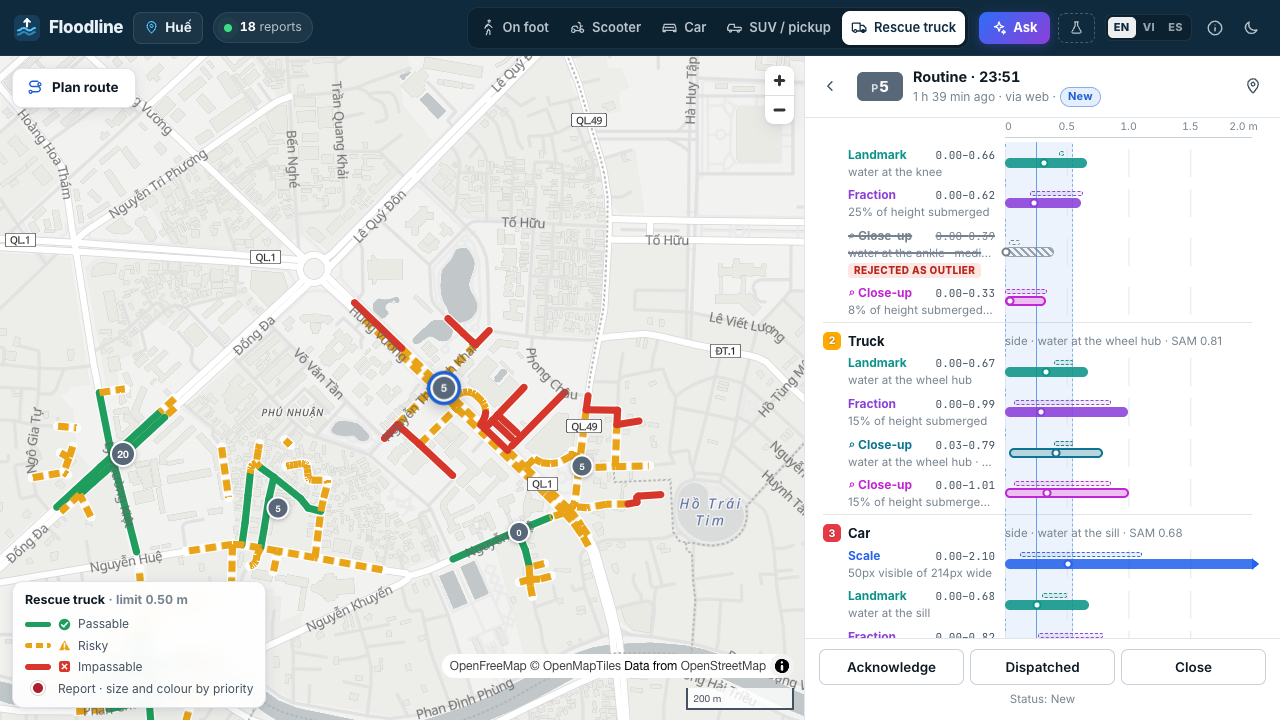
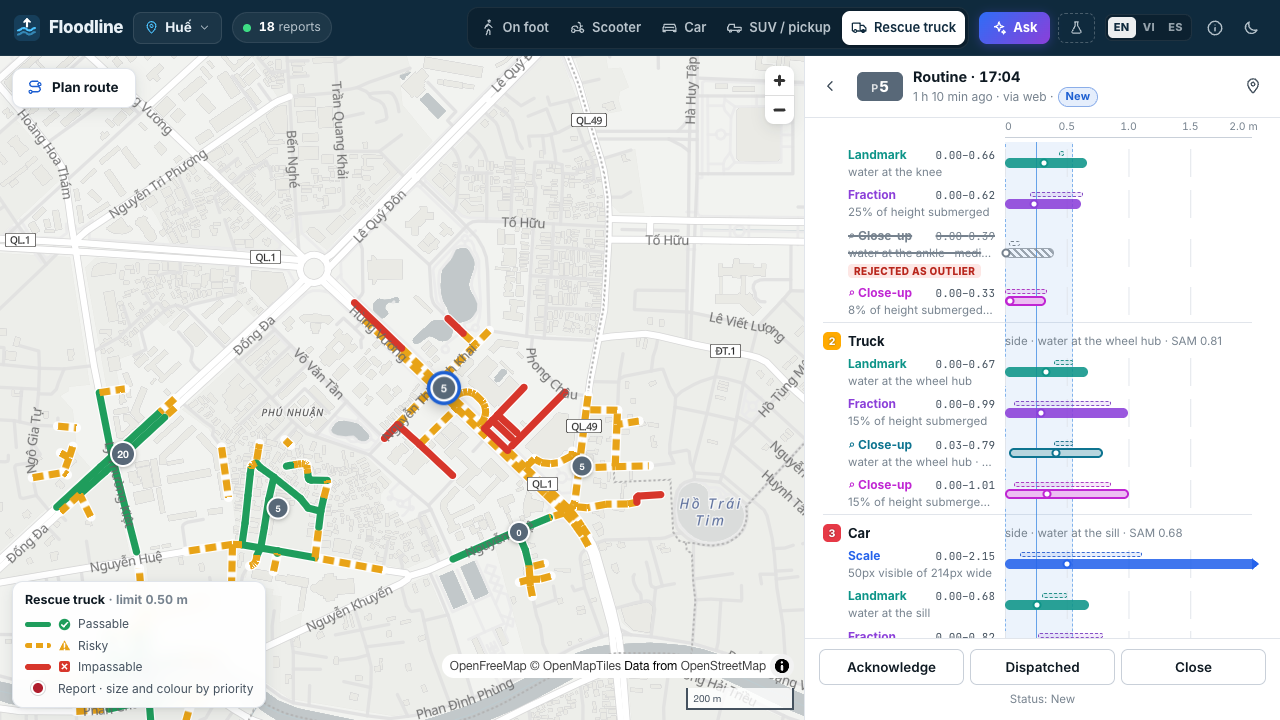
fix: replayed scenarios stay fresh; label the naive route for what it is
Scenario reports keep the age they have in the story, so a demo server that
has been up for a day still shows a night in progress instead of fading every
street to 'risky'. The comparison route is the fastest one ignoring the water,
not the shortest; the console, the assistant's tool and the README now say so.
README gains the Valencia route, the Spanish voice note with its translation,
and fresh screenshots.

diff --git a/web/src/lib/i18n.tsx b/web/src/lib/i18n.tsx
@@ -114,8 +114,8 @@ const en = {
   "route.avoids.other": "Avoids {n} flooded segments",
   "route.noFlood": "No flooding on the direct route",
   "route.safeFor": "Safe for {vehicle}",
-  "route.shortest": "Shortest",
-  "route.longer": "+{d} ({p}%) longer than the shortest route",
+  "route.shortest": "Fastest, ignoring water",
+  "route.longer": "+{d} ({p}%) longer than the fastest route ignoring water",
   "route.crosses.one": ", which crosses {n} impassable segment",
   "route.crosses.other": ", which crosses {n} impassable segments",
   "route.risky.one": "Still crosses {n} risky segment: drive slowly, check on arrival.",
@@ -124,7 +124,7 @@ const en = {
   "route.pin": "Pin {lat}, {lon}",
   "noroute.title": "No safe road route — send a boat",
   "noroute.for": "No safe road for {vehicle}.",
-  "noroute.naive": "The shortest road, {d}, runs through flooded streets.",
+  "noroute.naive": "The fastest road, {d}, runs through flooded streets.",
   "noroute.cutoff": "The destination itself is cut off by water.",
 
   // queue
@@ -609,15 +609,15 @@ const vi: Dict = {
   "route.avoids.other": "Tránh {n} đoạn ngập",
   "route.noFlood": "Đường thẳng không bị ngập",
   "route.safeFor": "An toàn cho {vehicle}",
-  "route.shortest": "Ngắn nhất",
-  "route.longer": "Dài hơn đường ngắn nhất {d} ({p}%)",
+  "route.shortest": "Nhanh nhất nếu bỏ qua nước",
+  "route.longer": "Dài hơn tuyến nhanh nhất (bỏ qua nước) {d} ({p}%)",
   "route.crosses.other": ", vốn đi qua {n} đoạn không qua được",
   "route.risky.other": "Vẫn qua {n} đoạn rủi ro: đi chậm, kiểm tra khi tới.",
   "route.new": "Tuyến mới",
   "route.pin": "Ghim {lat}, {lon}",
   "noroute.title": "Không còn đường bộ an toàn tới đây — cần thuyền",
   "noroute.for": "Không có đường bộ an toàn cho {vehicle}.",
-  "noroute.naive": "Đường ngắn nhất, {d}, đi qua các đường đang ngập.",
+  "noroute.naive": "Tuyến nhanh nhất, {d}, đi qua các đường đang ngập.",
   "noroute.cutoff": "Chính điểm đến đã bị nước cô lập.",
   "queue.aria": "Hàng đợi phân loại",
   "queue.title": "Hàng đợi phân loại",
@@ -1075,8 +1075,8 @@ const es: Dict = {
   "route.avoids.other": "Evita {n} tramos inundados",
   "route.noFlood": "La ruta directa no está inundada",
   "route.safeFor": "Segura para {vehicle}",
-  "route.shortest": "Más corta",
-  "route.longer": "+{d} ({p} %) más larga que la ruta más corta",
+  "route.shortest": "La más rápida, sin contar el agua",
+  "route.longer": "+{d} ({p} %) más larga que la ruta más rápida sin contar el agua",
   "route.crosses.one": ", que cruza {n} tramo intransitable",
   "route.crosses.other": ", que cruza {n} tramos intransitables",
   "route.risky.one": "Aún cruza {n} tramo arriesgado: ve despacio y comprueba al llegar.",
@@ -1085,7 +1085,7 @@ const es: Dict = {
   "route.pin": "Punto {lat}, {lon}",
   "noroute.title": "No queda ruta segura por carretera — enviad una barca",
   "noroute.for": "No hay carretera segura para {vehicle}.",
-  "noroute.naive": "La carretera más corta, {d}, atraviesa calles inundadas.",
+  "noroute.naive": "La carretera más rápida, {d}, atraviesa calles inundadas.",
   "noroute.cutoff": "El propio destino está aislado por el agua.",
   "queue.aria": "Cola de triaje",
   "queue.title": "Cola de triaje",

diff --git a/floodline/assistant.py b/floodline/assistant.py
@@ -80,7 +80,8 @@ TOOLS: list[dict[str, Any]] = [
         "type": "function",
         "name": "plan_route",
         "description": "The fastest route for one vehicle class that avoids impassable streets, "
-        "compared with the shortest route. Returns null route when no safe road exists.",
+        "compared with the fastest route ignoring the water. Returns null route when no safe "
+        "road exists.",
         "parameters": {
             "type": "object",
             "properties": {
@@ -141,7 +142,7 @@ class Tools:
             "street": self._street_of(r.lat, r.lon),
             "lat": round(r.lat, 5),
             "lon": round(r.lon, 5),
-            "minutes_ago": round((time.time() - r.at) / 60),
+            "minutes_ago": round((time.time() - r.effective_at) / 60),
             "depth_m": [est.get("low_m"), est.get("high_m")] if est else None,
             "priority": (r.triage or {}).get("priority"),
             "people": facts.get("people_count"),
@@ -245,8 +246,8 @@ class Tools:
             "vehicle": vehicle,
             "safe_route_m": r["length_m"] if r else None,
             "risky_segments_on_route": len(r["risky_segments"]) if r else None,
-            "shortest_route_m": naive["length_m"] if naive else None,
-            "impassable_segments_on_shortest": len(res.get("naive_blocked", [])),
+            "fastest_ignoring_water_m": naive["length_m"] if naive else None,
+            "impassable_segments_on_fastest_ignoring_water": len(res.get("naive_blocked", [])),
             "no_safe_road": r is None,
         }
 

diff --git a/floodline/store.py b/floodline/store.py
@@ -30,6 +30,13 @@ class StoredReport:
     extra: dict[str, Any] = field(default_factory=dict)
 
     @property
+    def effective_at(self) -> float:
+        """When the report was sent. A scenario report keeps its age in the story (say, 30 minutes
+        ago) however long the demo server has been up, so a replayed night never goes stale."""
+        minutes = self.extra.get("minutes_ago")
+        return time.time() - 60 * minutes if minutes is not None else self.at
+
+    @property
     def estimate(self) -> DepthEstimate | None:
         e = self.analysis.get("estimate")
         if not e:
@@ -45,14 +52,14 @@ class StoredReport:
         if est is None:
             return None
         flowing = self.analysis.get("perception", {}).get("water_flow") == "fast"
-        return Report(self.id, self.lat, self.lon, self.at, est, flowing)
+        return Report(self.id, self.lat, self.lon, self.effective_at, est, flowing)
 
     def public(self) -> dict[str, Any]:
         return {
             "id": self.id,
             "lat": self.lat,
             "lon": self.lon,
-            "at": self.at,
+            "at": self.effective_at,
             "note": self.note,
             "source": self.source,
             "status": self.status,

diff --git a/floodline/scenario.py b/floodline/scenario.py
@@ -78,6 +78,7 @@ def seed(
             city=city.id,
             extra={
                 "scenario": scenario["name"],
+                "minutes_ago": item["minutes_ago"],
                 "photo_credit": item.get("photo") or item["clip"],
             },
         )

diff --git a/README.md b/README.md
@@ -50,6 +50,10 @@ queue ordered by a published formula.
 7. **Works for any city**: a city is an OpenStreetMap extract, its residents' language and its
    people's heights ([data/cities/](data/cities/)). Huế and Valencia ship with the demo.
 
+![Valencia, October 2024: a rescue truck routed from Alfafar town hall to Doctor Peset hospital around seven flooded segments](docs/images/valencia.png)
+
+![A resident's voice note in Spanish, with Muse Spark's English translation beside it](docs/images/translation.png)
+
 ## How it uses Meta's models
 
 | | What it does in Floodline |
@@ -104,8 +108,8 @@ FLOODLINE_MODEL_MODE=replay uv run floodline serve                  # http://127
 ```
 
 Open the console at `/`, choose **Xe tải cứu hộ** (rescue truck), and plan the route
-*BV Trung ương Huế → Thành nội*: the shortest way crosses four segments a truck can't, so the route
-goes round. *→ Chợ Đông Ba* has no safe road left. Click the red Chi Lăng report for the evidence,
+*Central Hospital → Citadel (north)*: the fastest way, ignoring the water, crosses four segments a
+truck can't, so the route goes round. *→ Chợ Đông Ba* has no safe road left. Click the red Chi Lăng report for the evidence,
 open **Ask** and try an example question, or switch the city to Valencia.
 
 With a key from [dev.meta.ai](https://dev.meta.ai) in `.env` (`MODEL_API_KEY=…`), new photos are
